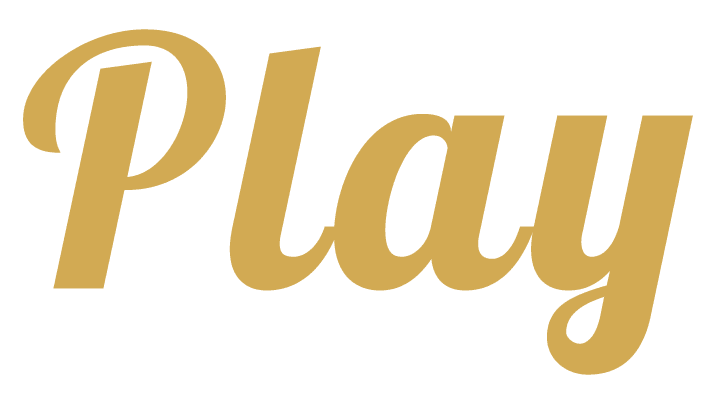
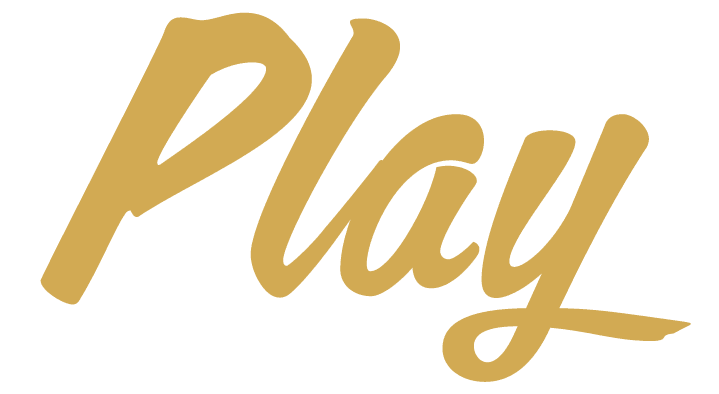
edits animation

diff --git a/css/style.css b/css/style.css
@@ -441,6 +441,24 @@ section {
     padding: 1em 0;
   }
 }
+#section-1 .waydown {
+  display: block;
+}
+@media (min-width: 768px) {
+  #section-1 .waydown {
+    display: none;
+  }
+}
+#section-1 #way {
+  display: none;
+}
+@media (min-width: 768px) {
+  #section-1 #way {
+    display: -webkit-box;
+    display: -ms-flexbox;
+    display: flex;
+  }
+}
 #section-1 .s1-pic {
   border-radius: 50%;
   margin: auto;
@@ -608,11 +626,11 @@ section {
   }
 }
 #section-2 p.drink-name {
-  font-family: Lobster, cursive;
+  font-family: calgary-script-ot, sans-serif;
   font-size: 2em;
   letter-spacing: 2px;
   color: #d4b05b;
-  font-weight: 900;
+  font-weight: 400;
   margin: auto;
   margin-top: 2em;
   margin-bottom: 0.4em;
@@ -864,20 +882,24 @@ section {
 }
 @media (min-width: 768px) {
   #section-5 img.left {
-    -webkit-transform: scale(4);
-            transform: scale(4);
+    -webkit-transform: scale(2);
+            transform: scale(2);
   }
 }
 #section-5 .players {
-  max-width: 80%;
+  font-size: 6em;
+  font-family: calgary-script-ot, sans-serif;
+  font-weight: 400;
+  color: #d4b05b;
+  max-width: 100%;
   margin: auto;
-  margin-top: 1em;
-  margin-bottom: 1.5em;
+  margin-top: 0.3em;
+  margin-bottom: 0.4em;
 }
 @media (min-width: 768px) {
   #section-5 .players {
-    max-width: 60%;
-    margin-bottom: 2em;
+    max-width: 100%;
+    font-size: 4.2em;
   }
 }
 #section-5 img.right {
@@ -887,8 +909,8 @@ section {
 }
 @media (min-width: 768px) {
   #section-5 img.right {
-    -webkit-transform: scale(4);
-            transform: scale(4);
+    -webkit-transform: scale(2);
+            transform: scale(2);
   }
 }
 #section-5 p.name {
@@ -1631,8 +1653,8 @@ body {
 
 [data-sectionstate=active] .animate-slide-left-section-5 {
   opacity: 1;
-  -webkit-transform: translate(-200px, 0);
-          transform: translate(-200px, 0);
+  -webkit-transform: translate(-250px, 0);
+          transform: translate(-250px, 0);
 }
 
 .animate-slide-left-section-6,
@@ -1691,8 +1713,8 @@ body {
 
 [data-sectionstate=active] .animate-slide-right-section-5 {
   opacity: 1;
-  -webkit-transform: translate(200px, 0);
-          transform: translate(200px, 0);
+  -webkit-transform: translate(250px, 0);
+          transform: translate(250px, 0);
 }
 
 .animate-drop-in-with-delay *,

diff --git a/scss/partials/_structure.scss b/scss/partials/_structure.scss
@@ -84,7 +84,17 @@ section {
 
 
     .waydown {
-        
+        display: block;
+        @media (min-width: $breakpoint-small) {
+            display: none;
+        }
+        }
+
+    #way {
+        display: none;
+        @media (min-width: $breakpoint-small) {
+            display: flex;
+        }
     }
 
     .s1-pic {
@@ -255,7 +265,7 @@ section {
         font-size: 2em;
         letter-spacing: 2px;
         color: $color-accent-light;
-        font-weight: 900;
+        font-weight: 400;
         margin: auto;
         margin-top: 2em;
         margin-bottom: .4em;
@@ -512,19 +522,23 @@ section {
         transform: translate(14.3em);
         margin: auto;
         @media (min-width: $breakpoint-small) {
-            transform: scale(4);
+            transform: scale(2);
         }
     
     }
 
     .players {
-        max-width: 80%;
+        font-size: 6em;
+        font-family: $font-family-header;
+        font-weight: 400;
+        color: $color-accent-light;
+        max-width: 100%;
         margin: auto;
-        margin-top: 1em;
-        margin-bottom: 1.5em;
+        margin-top: .3em;
+        margin-bottom: .4em;
         @media (min-width: $breakpoint-small) {
-            max-width: 60%;
-            margin-bottom: 2em;
+            max-width: 100%;
+            font-size: 4.2em;
         }
 
     }
@@ -532,9 +546,8 @@ section {
     img.right {
         transform: translate(-14.3em);
         margin: auto;
-        // box-shadow: 3px 3px 10px rgba(0,0,0,.6);
         @media (min-width: $breakpoint-small) {
-            transform: scale(4);
+            transform: scale(2);
         }
     }    
 

diff --git a/index.html b/index.html
@@ -69,6 +69,7 @@
             <div class="container">
                 <div class="row">
                     <div class="one-half left">
+                        <div id="way"></div>
                         <img src="img/section_1_type.png" class="waydown animate-slide-right"
                             alt="Way down in chinatown" height="500" width="500">
                         <p class="animate-slide-up"><span>W</span>e're a small boutique bar on the edge of chinatown,
@@ -80,10 +81,7 @@
                         <img src="img/section1_goldbarpic_round.png" alt="Round Bar Picture" class="s1-pic" height="500"
                             width="500">
                     </div>
-                    <div id="verticallines"></div>
-                    <!-- <div class="left-wheat animate-slide-up">
-                        <img src="img/wheat_left.png" alt="left wheat">
-                </div> -->
+                    <!-- <div id="verticallines"></div> -->
                     <div class="right-splatter-1 parallax-element" data-parallax-direction="horizontal"
                         data-parallax-speed="-.1">
                         <img src="img/splatter_right_1.png" alt="Right Splatter">
@@ -226,7 +224,7 @@
                     <div class="one-third staff">
 
                         <div class="animate-scale-in">
-                            <img src="img/section_5_pic.png" alt="The Staff" class="players">
+                            <h2 class="players">The Players</h2>
                         </div>
                         <div class="animate-slide-up">
                             <p class="name">JOE SCHMOE</p>

diff --git a/js/index.js b/js/index.js
@@ -105,12 +105,35 @@ document.querySelectorAll('#section-7').forEach((div) => {
     myobserver_map.observe(div);
 });
 
+// SECTION 1 ANIMATION
+
 const animation6 = lottie.loadAnimation({
-    container: verticallines, // the dom element that will contain the animation
+    container: way, // the dom element that will contain the animation
     renderer: 'svg',
-    loop: true,
-    autoplay: true,
-    path: 'js/EP_line_animation/data.json' // the path to the animation json
+    loop: false,
+    autoplay: false,
+    path: 'js/EP_section1_animation/data.json' // the path to the animation json
+});
+
+const io_options_section1 = {
+    // root: document.body,
+    rootMargin: '-25% 0px -25% 0px',
+    threshold: 0
+};
+
+const myobserver_section1 = new IntersectionObserver(entries => {
+    entries.forEach(entry => {
+        if (entry.isIntersecting) {
+            animation6.play();
+
+        } else {
+            animation6.stop();
+
+        }
+    });
+}, io_options_section1);
+document.querySelectorAll('#section-1').forEach((div) => {
+    myobserver_section1.observe(div);
 });
 
 

diff --git a/scss/partials/_animations.scss b/scss/partials/_animations.scss
@@ -161,7 +161,7 @@ body {
 
 [data-sectionstate="active"] .animate-slide-left-section-5 {
     opacity: 1;
-    transform: translate(-200px, 0);
+    transform: translate(-250px, 0);
 }
 
 .animate-slide-left-section-6,
@@ -212,7 +212,7 @@ body {
 
 [data-sectionstate="active"] .animate-slide-right-section-5 {
     opacity: 1;
-    transform: translate(200px, 0);
+    transform: translate(250px, 0);
 }
 
 

diff --git a/scss/style.scss b/scss/style.scss
@@ -21,7 +21,7 @@ $font-family-sans: montserrat, helvetica, arial;
 $font-family-serif: playfair-display, serif;
 $font-family-ingredients: ivypresto-text, serif;
 $font-family-drinknames: montserrat,sans-serif;
-$font-family-header: Lobster, cursive;
+$font-family-header: calgary-script-ot, sans-serif;
 
 // BREAKPOINTS 
 
